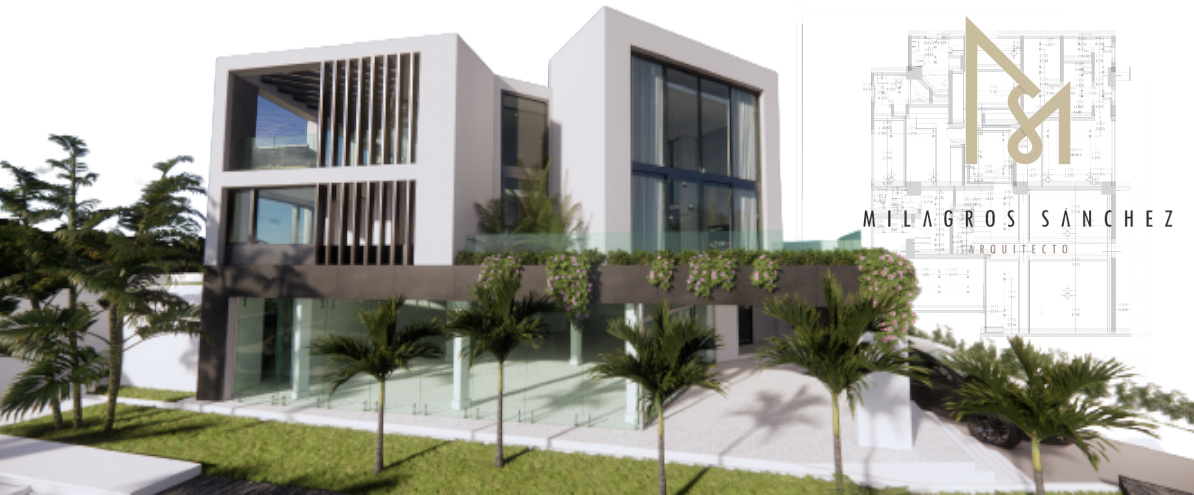
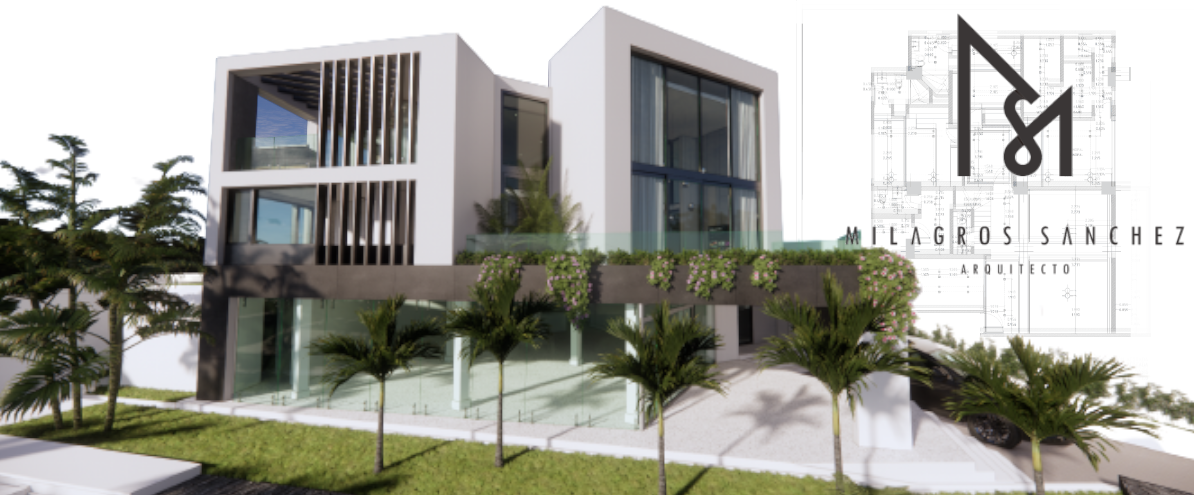
cambada imagen de footer

Changed region(s): [[0.7747, 0.0303, 0.8987, 0.3636], [0.6817, 0.4242, 0.9916, 0.5758]]

diff --git a/public/css/style.css b/public/css/style.css
@@ -18,7 +18,7 @@ body {
 }
 
 a {
-  color: #eabe3f;
+  color: #2c2c2c;
   transition: 0.5s;
   text-decoration: none;
 }
@@ -53,7 +53,7 @@ h6 {
 .back-to-top {
   position: fixed;
   display: none;
-  background: #eabe3f;
+  background: #2c2c2c;
   color: #fff;
   width: 44px;
   height: 44px;
@@ -91,7 +91,7 @@ h6 {
   top: calc(50% - 30px);
   left: calc(50% - 30px);
   border: 6px solid #f2f2f2;
-  border-top: 6px solid #eabe3f;
+  border-top: 6px solid #2c2c2c;
   border-radius: 50%;
   width: 60px;
   height: 60px;
@@ -165,7 +165,7 @@ h6 {
 #header #logo h1 a:hover {
   color: #fff;
   padding-left: 10px;
-  border-left: 4px solid #eabe3f;
+  border-left: 4px solid #2c2c2c;
 }
 
 #header #logo img {
@@ -315,12 +315,12 @@ h6 {
   transition: 0.5s;
   margin: 10px;
   color: #fff;
-  background: #eabe3f;
+  background: #2c2c2c;
 }
 
 .btn-get-started:hover {
   background: #fff;
-  color: #eabe3f;
+  color: #2c2c2c;
 }
 
 /*--------------------------------------------------------------
@@ -409,7 +409,7 @@ h6 {
 
 .nav-menu li:hover > a,
 .nav-menu > .menu-active > a {
-  color: #eabe3f;
+  color: #2c2c2c;
 }
 
 .nav-menu > li {
@@ -437,7 +437,7 @@ h6 {
 }
 
 .nav-menu ul li:hover > a {
-  color: #eabe3f;
+  color: #2c2c2c;
 }
 
 .nav-menu ul ul {
@@ -506,7 +506,7 @@ h6 {
 }
 
 #mobile-nav ul li a:hover {
-  color: #eabe3f;
+  color: #2c2c2c;
 }
 
 #mobile-nav ul li li {
@@ -514,7 +514,7 @@ h6 {
 }
 
 #mobile-nav ul li.menu-active a {
-  color: #eabe3f;
+  color: #2c2c2c;
 }
 
 #mobile-nav ul .menu-has-children i {
@@ -527,7 +527,7 @@ h6 {
 }
 
 #mobile-nav ul .menu-has-children i.fa-chevron-up {
-  color: #eabe3f;
+  color: #2c2c2c;
 }
 
 #mobile-nav ul .menu-has-children li a {
@@ -535,7 +535,7 @@ h6 {
 }
 
 #mobile-nav ul .menu-item-active {
-  color: #eabe3f;
+  color: #2c2c2c;
 }
 
 #mobile-body-overly {
@@ -596,7 +596,7 @@ body.mobile-nav-active #mobile-nav-toggle {
   display: block;
   width: 40px;
   height: 3px;
-  background: #eabe3f;
+  background: #2c2c2c;
   bottom: 0;
   left: calc(50% - 20px);
 }
@@ -644,7 +644,7 @@ body.mobile-nav-active #mobile-nav-toggle {
 }
 
 #featured-services i {
-  color: #eabe3f;
+  color: #2c2c2c;
   font-size: 48px;
   display: inline-block;
   line-height: 1;
@@ -661,7 +661,7 @@ body.mobile-nav-active #mobile-nav-toggle {
 }
 
 #featured-services h4 a:hover {
-  color: #eabe3f;
+  color: #2c2c2c;
 }
 
 #featured-services p {
@@ -735,7 +735,7 @@ body.mobile-nav-active #mobile-nav-toggle {
   padding-top: 8px;
   text-align: center;
   position: absolute;
-  background-color: #eabe3f;
+  background-color: #2c2c2c;
   border-radius: 50%;
   text-align: center;
   border: 4px solid #fff;
@@ -756,7 +756,7 @@ body.mobile-nav-active #mobile-nav-toggle {
 }
 
 #about .about-col:hover i {
-  color: #eabe3f;
+  color: #2c2c2c;
 }
 
 #about .about-col h2 {
@@ -773,7 +773,7 @@ body.mobile-nav-active #mobile-nav-toggle {
 }
 
 #about .about-col h2 a:hover {
-  color: #eabe3f;
+  color: #2c2c2c;
 }
 
 #about .about-col p {
@@ -802,7 +802,7 @@ body.mobile-nav-active #mobile-nav-toggle {
 }
 
 #services .icon i {
-  color: #eabe3f;
+  color: #2c2c2c;
   font-size: 36px;
   line-height: 1;
   transition: 0.5s;
@@ -820,7 +820,7 @@ body.mobile-nav-active #mobile-nav-toggle {
 }
 
 #services .box:hover .title a {
-  color: #eabe3f;
+  color: #2c2c2c;
 }
 
 #services .description {
@@ -865,8 +865,8 @@ body.mobile-nav-active #mobile-nav-toggle {
 }
 
 #call-to-action .cta-btn:hover {
-  background: #eabe3f;
-  border: 2px solid #eabe3f;
+  background: #2c2c2c;
+  border: 2px solid #2c2c2c;
 }
 
 /* Call To Action Section
@@ -932,7 +932,7 @@ body.mobile-nav-active #mobile-nav-toggle {
   font-weight: bold;
   font-size: 48px;
   display: block;
-  color: #eabe3f;
+  color: #2c2c2c;
 }
 
 #facts .counters p {
@@ -979,7 +979,7 @@ body.mobile-nav-active #mobile-nav-toggle {
 
 #portfolio #portfolio-flters li:hover,
 #portfolio #portfolio-flters li.filter-active {
-  background: #eabe3f;
+  background: #2c2c2c;
   color: #fff;
 }
 
@@ -1039,7 +1039,7 @@ body.mobile-nav-active #mobile-nav-toggle {
 
 #portfolio .portfolio-item figure .link-preview:hover,
 #portfolio .portfolio-item figure .link-details:hover {
-  background: #eabe3f;
+  background: #2c2c2c;
 }
 
 #portfolio .portfolio-item figure .link-preview:hover i,
@@ -1088,7 +1088,7 @@ body.mobile-nav-active #mobile-nav-toggle {
 }
 
 #portfolio .portfolio-item .portfolio-info h4 a:hover {
-  color: #eabe3f;
+  color: #2c2c2c;
 }
 
 #portfolio .portfolio-item .portfolio-info p {
@@ -1134,7 +1134,7 @@ body.mobile-nav-active #mobile-nav-toggle {
 }
 
 #clients .owl-dot.active {
-  background-color: #eabe3f;
+  background-color: #2c2c2c;
 }
 
 /* Testimonials Section
@@ -1208,7 +1208,7 @@ body.mobile-nav-active #mobile-nav-toggle {
 }
 
 #testimonials .owl-dot.active {
-  background-color: #eabe3f;
+  background-color: #2c2c2c;
 }
 
 /* Team Section
@@ -1288,7 +1288,7 @@ body.mobile-nav-active #mobile-nav-toggle {
 }
 
 #team .member .social a:hover {
-  color: #eabe3f;
+  color: #2c2c2c;
 }
 
 #team .member .social i {
@@ -1312,7 +1312,7 @@ body.mobile-nav-active #mobile-nav-toggle {
   font-size: 48px;
   display: inline-block;
   margin-bottom: 10px;
-  color: #eabe3f;
+  color: #2c2c2c;
 }
 
 #contact .contact-info address,
@@ -1334,7 +1334,7 @@ body.mobile-nav-active #mobile-nav-toggle {
 }
 
 #contact .contact-info a:hover {
-  color: #eabe3f;
+  color: #2c2c2c;
 }
 
 #contact .contact-address,
@@ -1344,8 +1344,8 @@ body.mobile-nav-active #mobile-nav-toggle {
 }
 
 #contact .form #sendmessage {
-  color: #eabe3f;
-  border: 1px solid #eabe3f;
+  color: #2c2c2c;
+  border: 1px solid #2c2c2c;
   display: none;
   text-align: center;
   padding: 15px;
@@ -1386,7 +1386,7 @@ body.mobile-nav-active #mobile-nav-toggle {
 }
 
 #contact .form button[type="submit"] {
-  background: #eabe3f;
+  background: #2c2c2c;
   border: 0;
   padding: 10px 30px;
   color: #fff;
@@ -1426,7 +1426,7 @@ body.mobile-nav-active #mobile-nav-toggle {
   font-family: "Montserrat", sans-serif;
   font-weight: 700;
   letter-spacing: 3px;
-  border-left: 4px solid #eabe3f;
+  border-left: 4px solid #2c2c2c;
 }
 
 #footer .footer-top .footer-info p {
@@ -1453,7 +1453,7 @@ body.mobile-nav-active #mobile-nav-toggle {
 }
 
 #footer .footer-top .social-links a:hover {
-  background: #eabe3f;
+  background: #2c2c2c;
   color: #fff;
 }
 
@@ -1481,7 +1481,7 @@ body.mobile-nav-active #mobile-nav-toggle {
 }
 
 #footer .footer-top h4::after {
-  background: #eabe3f;
+  background: #2c2c2c;
   width: 60px;
 }
 
@@ -1514,7 +1514,7 @@ body.mobile-nav-active #mobile-nav-toggle {
 }
 
 #footer .footer-top .footer-links ul a:hover {
-  color: #eabe3f;
+  color: #2c2c2c;
 }
 
 #footer .footer-top .footer-contact {
@@ -1536,7 +1536,7 @@ body.mobile-nav-active #mobile-nav-toggle {
 }
 
 #footer .footer-top .footer-newsletter input[type="submit"] {
-  background: #eabe3f;
+  background: #2c2c2c;
   border: 0;
   width: 35%;
   padding: 6px 0;
@@ -1718,7 +1718,7 @@ body.mobile-nav-active #mobile-nav-toggle {
 }
 
 .card-body h5 a:hover  {
-  color: #eabe3f !important;;
+  color: #2c2c2c !important;;
 
 }
 
@@ -1857,7 +1857,7 @@ body.mobile-nav-active #mobile-nav-toggle {
 
 /*texto dentro de la imagen en POST*/
 .blog-body .card-title {
-  color: #eabe3f;
+  color: #2c2c2c;
 }
 
 /* borde de la textpro */
@@ -1877,12 +1877,12 @@ body.mobile-nav-active #mobile-nav-toggle {
 }
 .custombotto:hover{
   background-color: black;
-  border-color: #eabe3f;
-  color: #eabe3f;
+  border-color: #2c2c2c;
+  color: #2c2c2c;
 
 }
 .custombotto2:hover{
-  background-color:  #eabe3f;
+  background-color:  #2c2c2c;
 
 }
 

diff --git a/resources/views/sections/footer.blade.php b/resources/views/sections/footer.blade.php
@@ -7,7 +7,7 @@
         <div class="row">
 
           <div class="col-lg-3 col-md-6 footer-info">
-            <a href="#"> <img class="footer-logo" src=" {{ asset('/images/MSarquitecta logo Horizontal logo dorado.png') }}"> </a>
+            <a href="#"> <img class="footer-logo" src=" {{ asset('/images/MSarquitecta logo Horizontal trans.png') }}"> </a>
             <p>Somos un grupo de personas con valores y principios que unen sus fuerzas en común, para consolidarse como un equipo de trabajo productivo en todos los sentidos, que no deja de superarse cada día para llevar el éxito de nuestra empresa a otro nivel.</p>
           </div>
 
